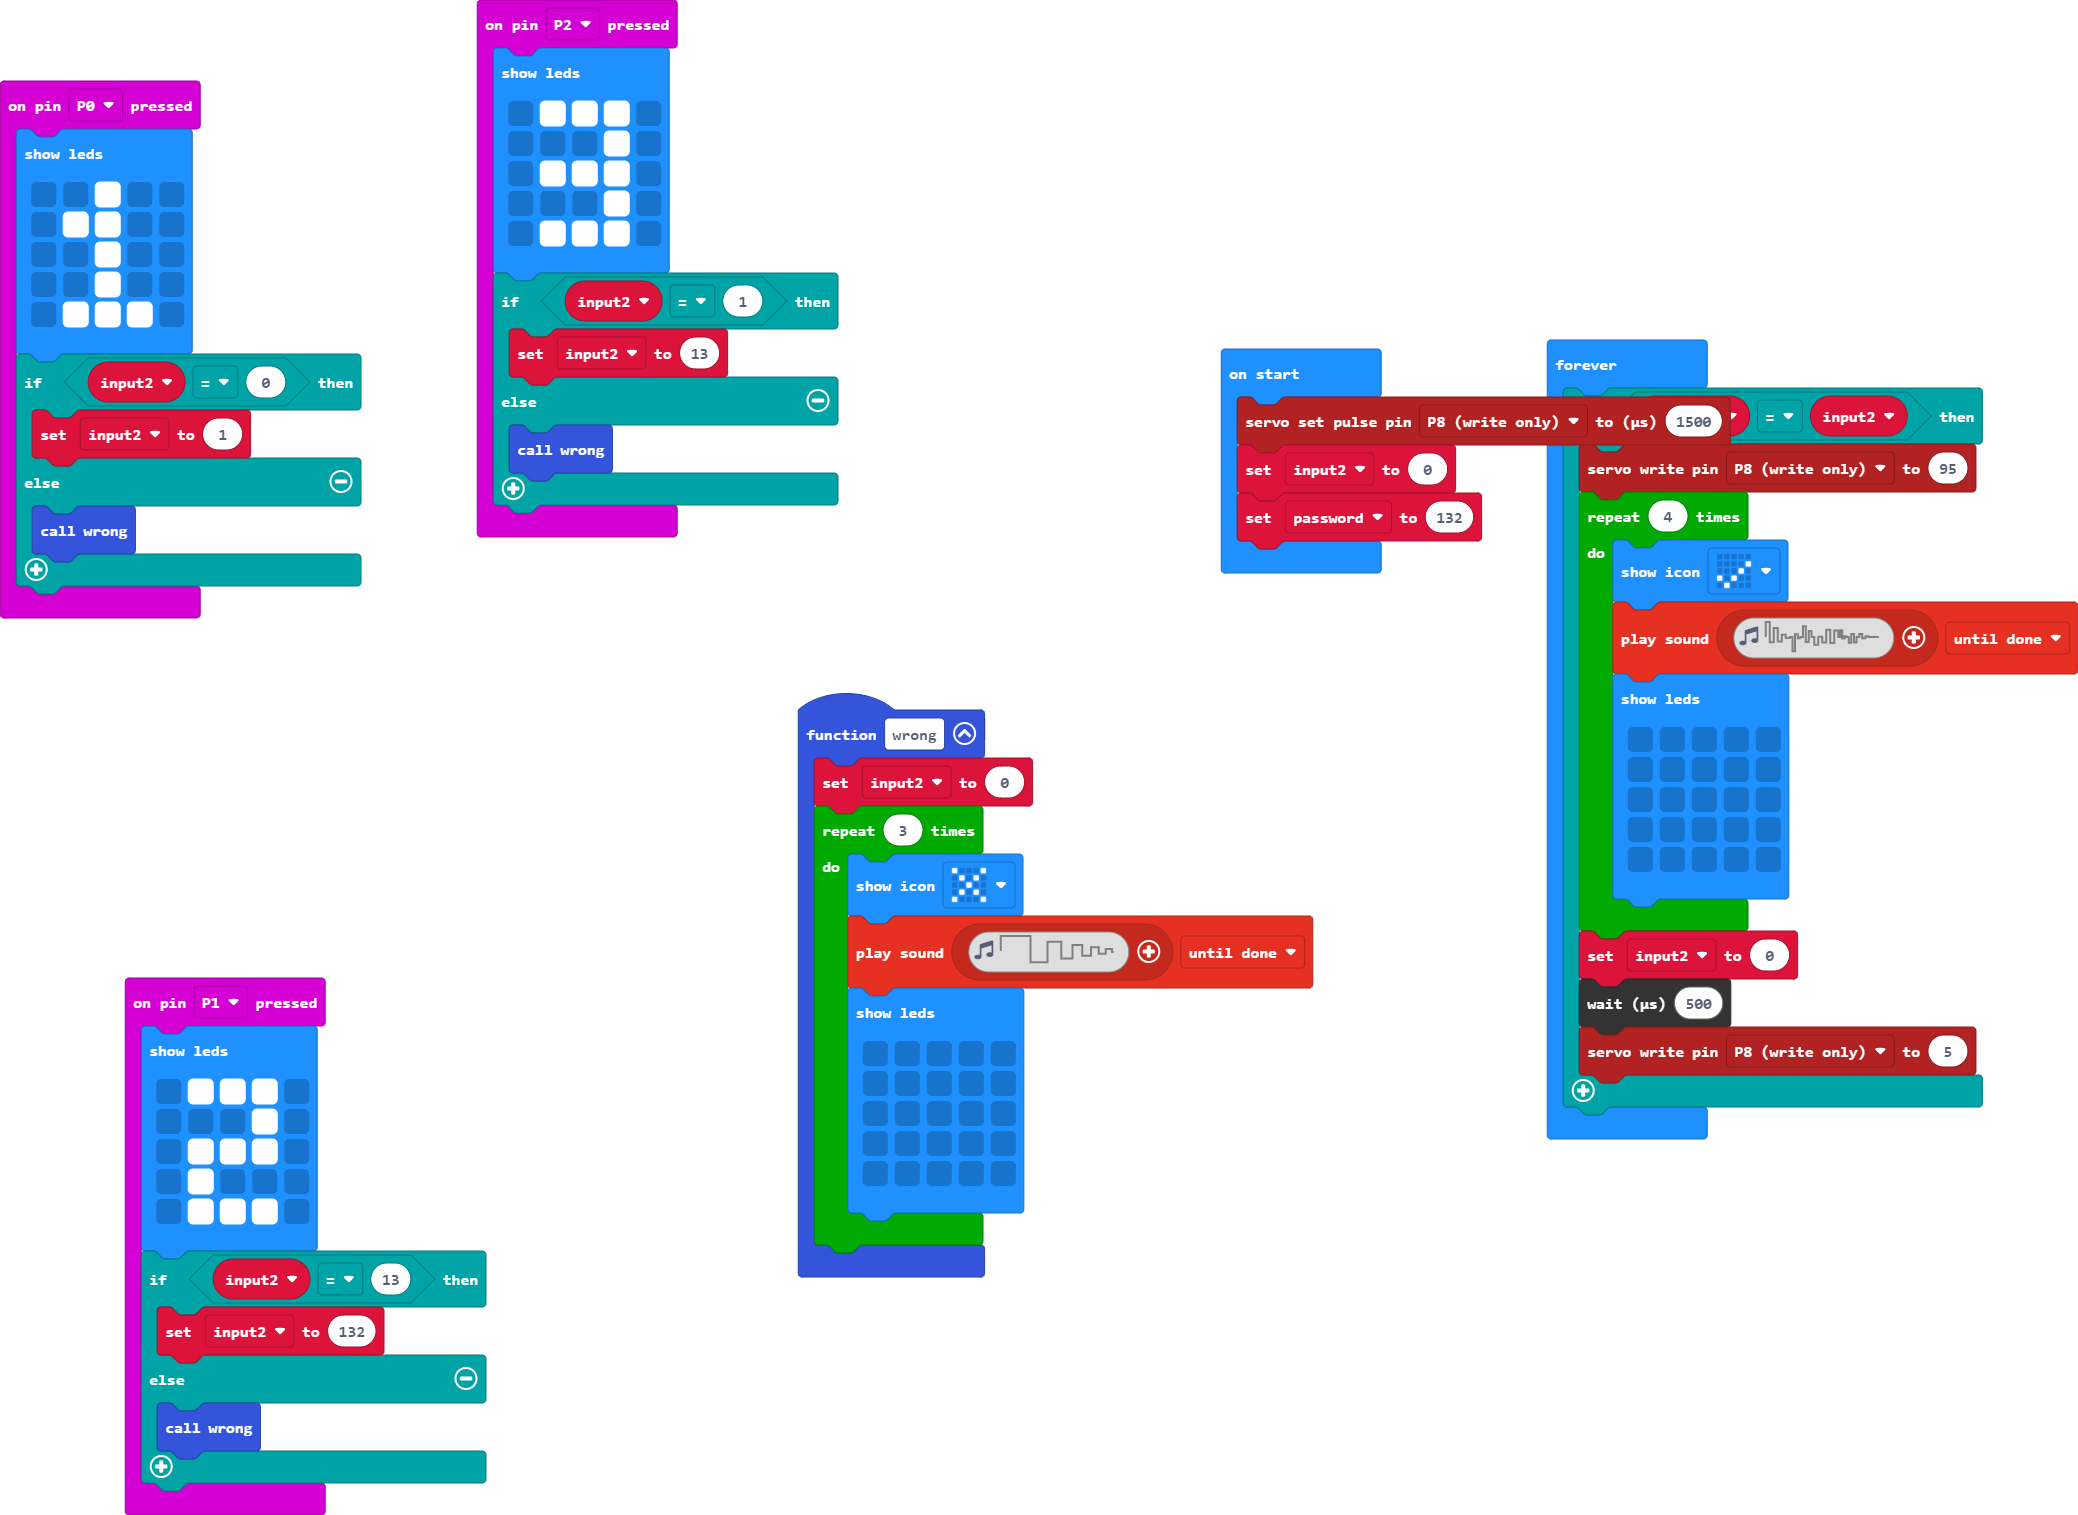
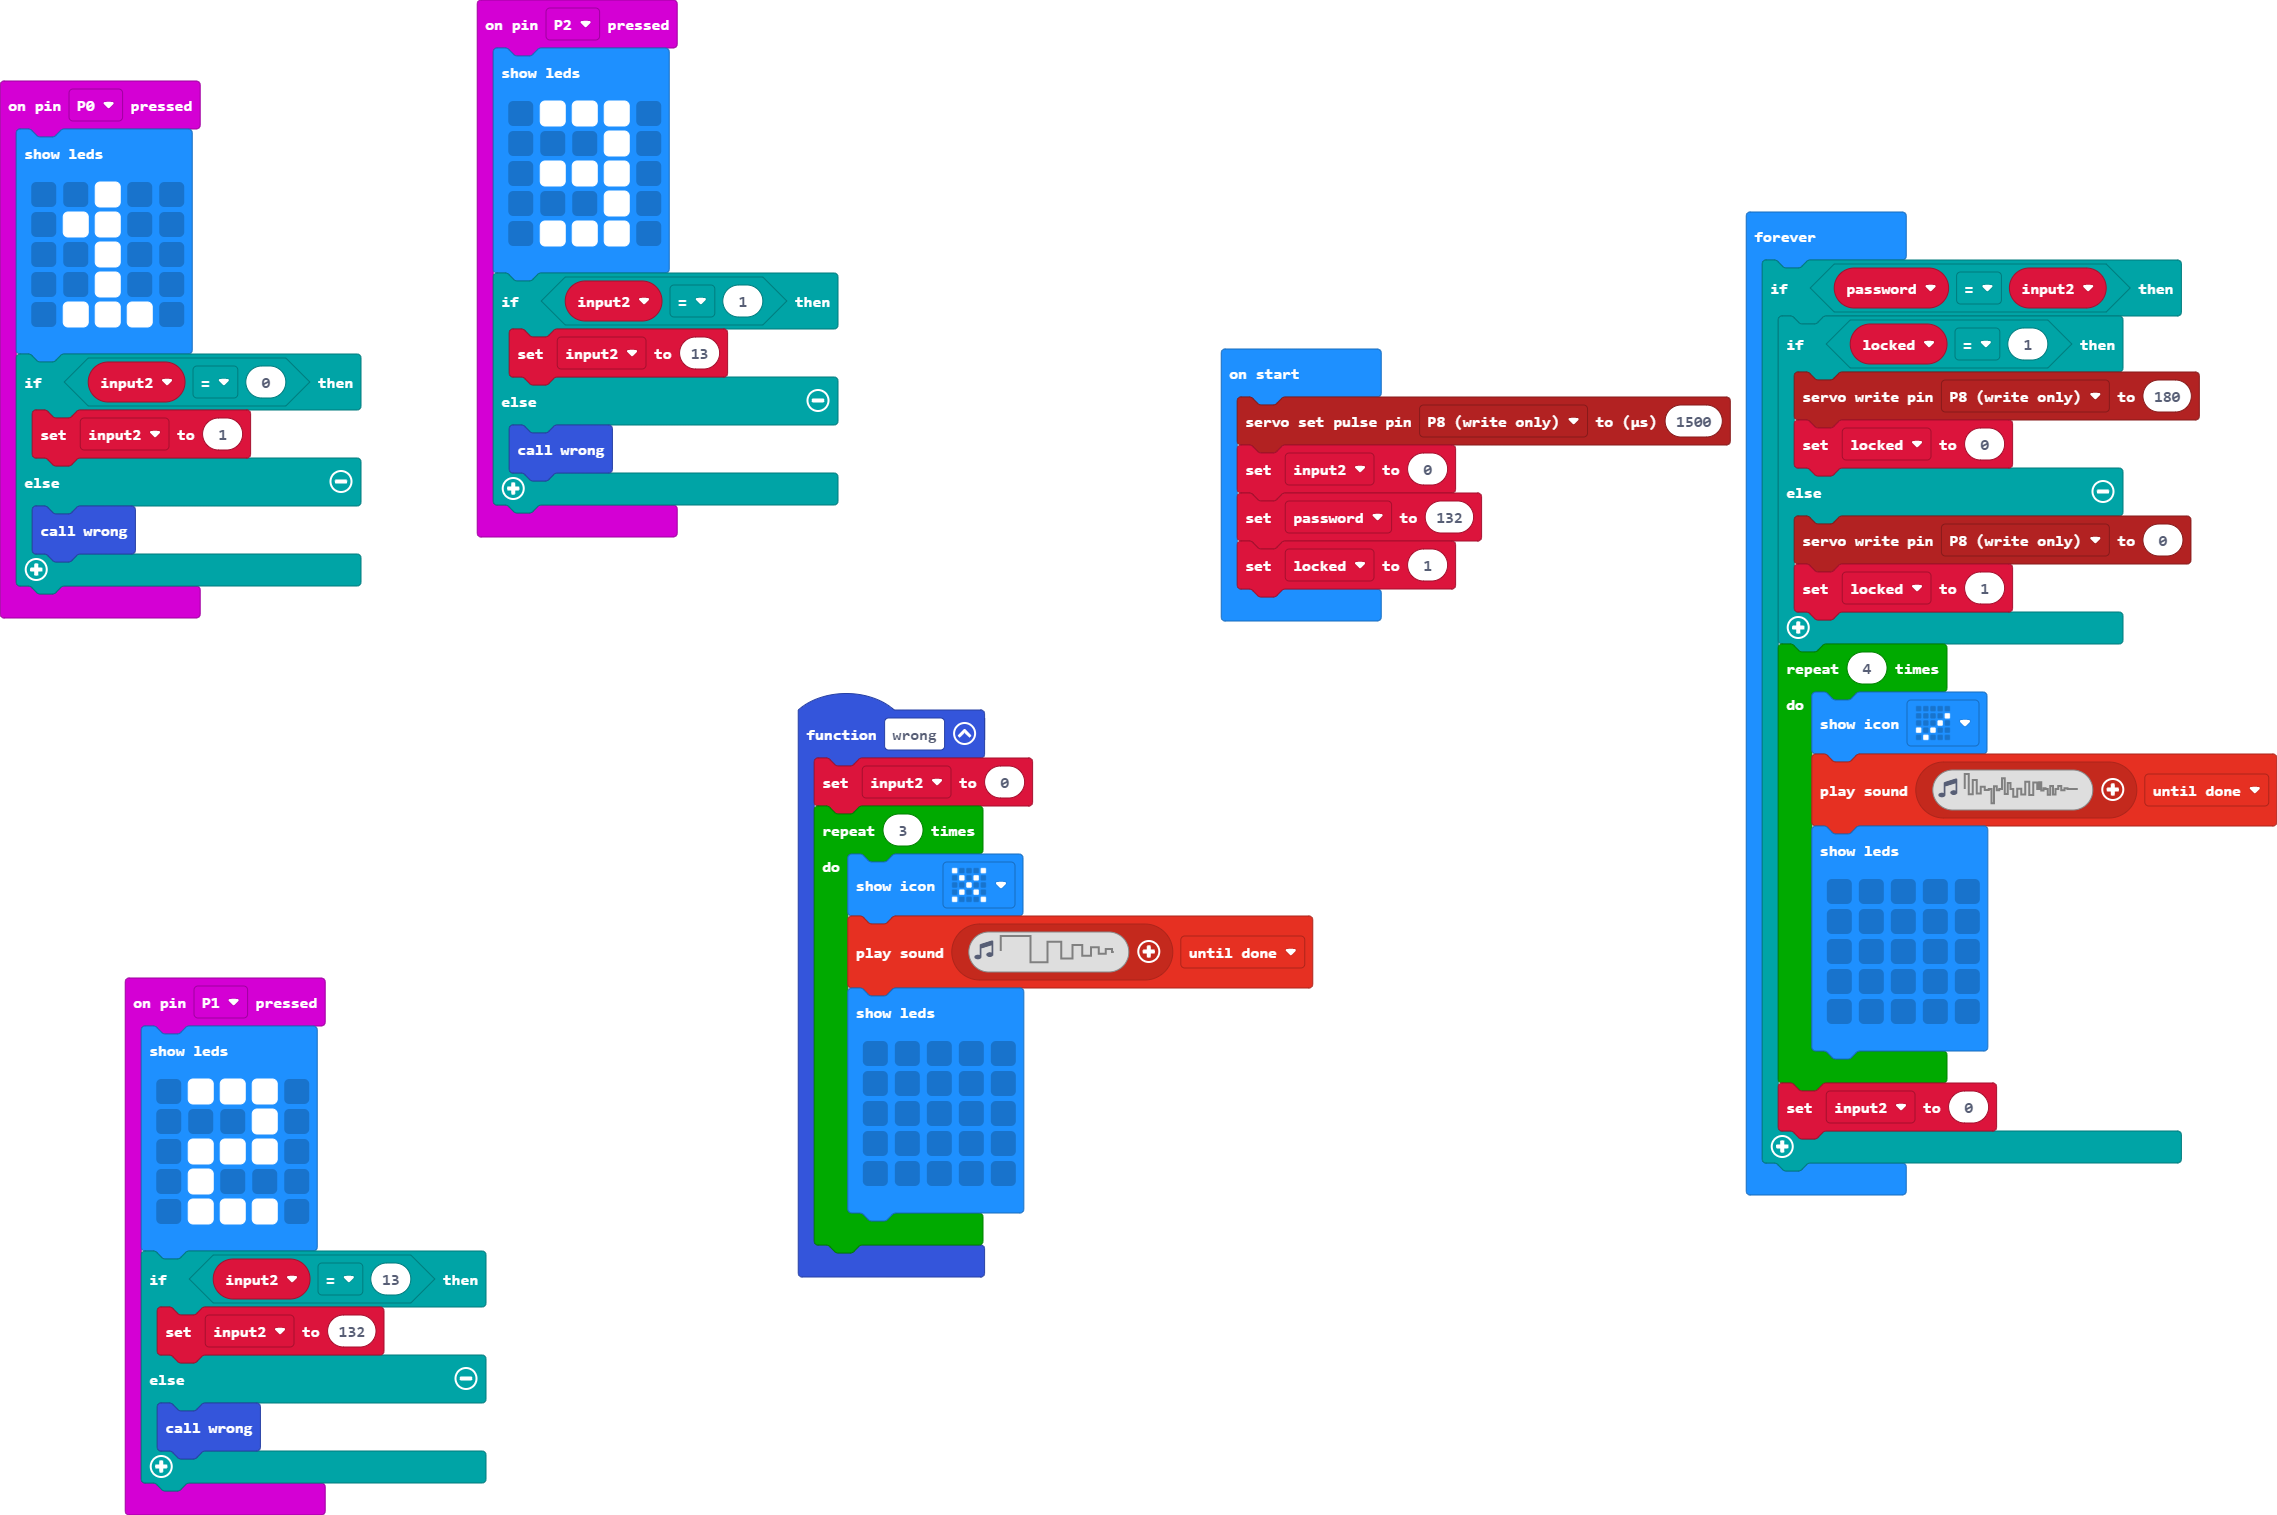
Password twice, lock now stays in lock or unlock position

diff --git a/main.ts b/main.ts
@@ -58,9 +58,16 @@ let input2 = 0
 pins.servoSetPulse(AnalogPin.P8, 1500)
 input2 = 0
 let password = 132
+let locked = 1
 basic.forever(function () {
     if (password == input2) {
-        pins.servoWritePin(AnalogPin.P8, 95)
+        if (locked == 1) {
+            pins.servoWritePin(AnalogPin.P8, 180)
+            locked = 0
+        } else {
+            pins.servoWritePin(AnalogPin.P8, 0)
+            locked = 1
+        }
         for (let index = 0; index < 4; index++) {
             basic.showIcon(IconNames.Yes)
             music.playSoundEffect(music.createSoundEffect(WaveShape.Noise, 5000, 1, 255, 0, 500, SoundExpressionEffect.None, InterpolationCurve.Logarithmic), SoundExpressionPlayMode.UntilDone)
@@ -73,7 +80,5 @@ basic.forever(function () {
                 `)
         }
         input2 = 0
-        control.waitMicros(500)
-        pins.servoWritePin(AnalogPin.P8, 5)
     }
 })
